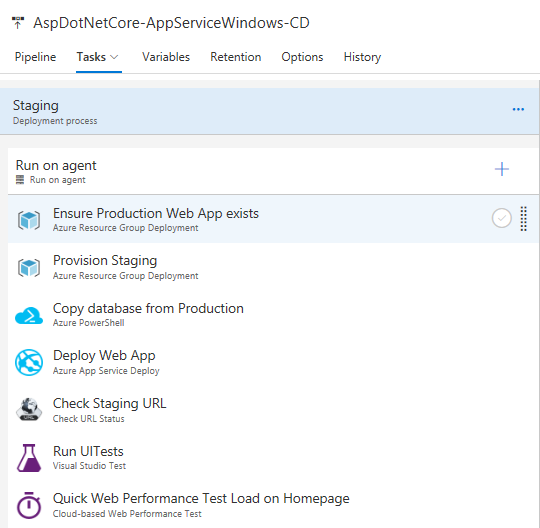
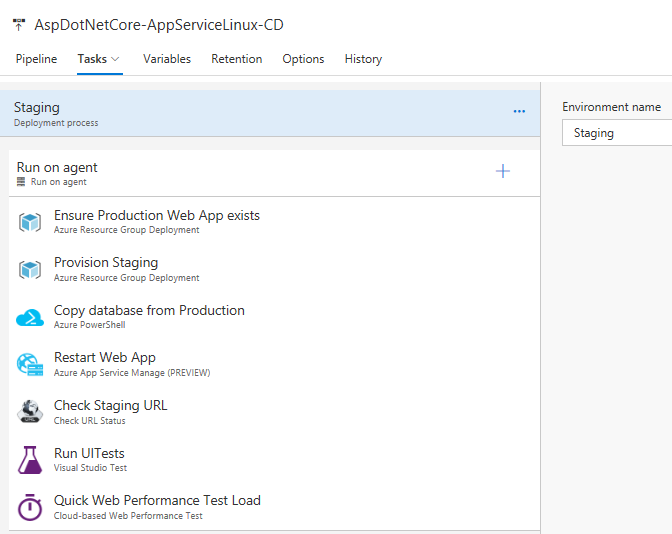
Update general documentation for App Service Linux CD.

diff --git a/docs/AspDotNetCore-AppServiceLinux-CD.md b/docs/AspDotNetCore-AppServiceLinux-CD.md
@@ -29,7 +29,7 @@ TODO
 - Location = East US
 
 ### Steps 
-- (Ensure) App Service Plan and Web App
+- Ensure Production Web App exists
   - Type = Azure Resource Group Deployment
   - Version = 2.*
   - Azure Subscription = set appropriate
@@ -40,7 +40,7 @@ TODO
   - Template = $(System.DefaultWorkingDirectory)/AspDotNetCore-AppServiceLinux-CI/infra/[deploy-linux.json](../infra/templates/deploy-linux.json)
   - Override Template Parameters = -webAppName $(ResourceGroupName) -appServicePlanName $(ResourceGroupName)
   - Deployment Mode = Incremental
-- Slot
+- Provision Staging
   - Type = Azure Resource Group Deployment
   - Version = 2.*
   - Azure Subscription = set appropriate
@@ -48,41 +48,8 @@ TODO
   - Resource Group = $(ResourceGroupName)
   - Location = $(Location)
   - Template location = Linked artifact
-  - Template = $(System.DefaultWorkingDirectory)/AspDotNetCore-AppServiceLinux-CI/infra/[WebAppSlot.json](../infra/templates/WebAppSlot.json)
+  - Template = $(System.DefaultWorkingDirectory)/AspDotNetCore-AppServiceLinux-CI/infra/[deploy-linux-slot.json](../infra/templates/deploy-linux-slot.json)
   - Override Template Parameters = -webAppName $(ResourceGroupName) -slotName $(SlotName)
-  - Deployment Mode = Incremental
-- App Insights
-  - Type = Azure Resource Group Deployment
-  - Version = 2.*
-  - Azure Subscription = set appropriate
-  - Action = Create Or Update Resource Group
-  - Resource Group = $(ResourceGroupName)
-  - Location = $(Location)
-  - Template location = Linked artifact
-  - Template = $(System.DefaultWorkingDirectory)/AspDotNetCore-AppServiceLinux-CI/infra/[ApplicationInsights.json](../infra/templates/ApplicationInsights.json)
-  - Override Template Parameters = -appInsightsName $(ResourceGroupName)-$(SlotName)
-  - Deployment Mode = Incremental
-- Sql Database
-  - Type = Azure Resource Group Deployment
-  - Version = 2.*
-  - Azure Subscription = set appropriate
-  - Action = Create Or Update Resource Group
-  - Resource Group = $(ResourceGroupName)
-  - Location = $(Location)
-  - Template location = Linked artifact
-  - Template = $(System.DefaultWorkingDirectory)/AspDotNetCore-AppServiceLinux-CI/infra/[SqlDatabase.json](../infra/templates/SqlDatabase.json)
-  - Override Template Parameters = -databaseName $(ResourceGroupName)-$(SlotName) -adminLogin $(AdministratorLogin) -adminLoginPassword (ConvertTo-SecureString -String '$(AdministratorLoginPassword)' -AsPlainText -Force)
-  - Deployment Mode = Incremental
-- Slot App Settings
-  - Type = Azure Resource Group Deployment
-  - Version = 2.*
-  - Azure Subscription = set appropriate
-  - Action = Create Or Update Resource Group
-  - Resource Group = $(ResourceGroupName)
-  - Location = $(Location)
-  - Template location = Linked artifact
-  - Template = $(System.DefaultWorkingDirectory)/AspDotNetCore-AppServiceLinux-CI/infra/[WebAppSlotSettings.json](../infra/templates/WebAppSlotSettings.json)
-  - Override Template Parameters = -webAppName $(ResourceGroupName) -slotName $(SlotName) -adminLogin $(AdministratorLogin) -adminLoginPassword (ConvertTo-SecureString -String '$(AdministratorLoginPassword)' -AsPlainText -Force)
   - Deployment Mode = Incremental
 - Restart Web App
   - Type = Azure App Service Manage (PREVIEW)
@@ -93,6 +60,21 @@ TODO
   - Specify Slot = true
   - Resource Group = $(ResourceGroupName)
   - Slot = $(SlotName)
+- Run UITests
+  - Type = Visual Studio Test
+  - Version = 2.*
+  - Select tests using = Test assemblies
+  - Test assemblies = *UITests.dll
+  - Search folder = $(System.DefaultWorkingDirectory)/AspDotNetCore-AppServiceLinux-CI/ui-tests
+  - Test filter criteria = TestCategory=UITests
+  - Select test platform using = Version
+  - Test paltform version = Latest
+  - Settings file = $(System.DefaultWorkingDirectory)/ApsNetCore-AppServiceLinux-CI/ui-tests/TestRunParameters.runsettings
+  - Override test run parameters = -BaseUrl https://$(ResourceGroupName)-$(SlotName).azurewebsites.net -Browser PhantomJS
+  - Test run title = UITests
+  - Build Platform = $(ReleasePlatform)
+  - Build Configuration = $(ReleaseConfiguration)
+  - Upload test attachments = true
 - Quick Web Performance Test Load
   - Type = Cloud-based Web Performance Test
   - Version = 1.*
@@ -122,50 +104,23 @@ TODO
 - Location = East US
 
 ### Steps
-- (Ensure) App Service Plan and Web App
-  - Type = Azure Resource Group Deployment
-  - Version = 2.*
+- Stop Staging
+  - Type = Azure App Service Manage (PREVIEW)
+  - Version = 0.*
   - Azure Subscription = set appropriate
-  - Action = Create Or Update Resource Group
+  - Action = Stop App Service
+  - App Service Name = $(ResourceGroupName)
+  - Specify Slot = true
   - Resource Group = $(ResourceGroupName)
-  - Location = $(Location)
-  - Template location = Linked artifact
-  - Template = $(System.DefaultWorkingDirectory)/AspDotNetCore-AppServiceLinux-CI/infra/[deploy-linux.json](../infra/templates/deploy-linux.json)
-  - Override Template Parameters = -webAppName $(ResourceGroupName) -appServicePlanName $(ResourceGroupName)
-  - Deployment Mode = Incremental
-- App Insights
-  - Type = Azure Resource Group Deployment
-  - Version = 2.*
+  - Slot = $(SlotToSwap)
+- Copy database from Production (Backup plan)
+  - Type = Azure PowerShell
+  - Version = 0.*
+  - Azure Connection Type = Azure Resource Manager
   - Azure Subscription = set appropriate
-  - Action = Create Or Update Resource Group
-  - Resource Group = $(ResourceGroupName)
-  - Location = $(Location)
-  - Template location = Linked artifact
-  - Template = $(System.DefaultWorkingDirectory)/AspDotNetCore-AppServiceLinux-CI/infra/[ApplicationInsights.json](../infra/templates/ApplicationInsights.json)
-  - Override Template Parameters = -appInsightsName $(ResourceGroupName)
-  - Deployment Mode = Incremental
-- Sql Database
-  - Type = Azure Resource Group Deployment
-  - Version = 2.*
-  - Azure Subscription = set appropriate
-  - Action = Create Or Update Resource Group
-  - Resource Group = $(ResourceGroupName)
-  - Location = $(Location)
-  - Template location = Linked artifact
-  - Template = $(System.DefaultWorkingDirectory)/AspDotNetCore-AppServiceLinux-CI/infra/[SqlDatabase.json](../infra/templates/SqlDatabase.json)
-  - Override Template Parameters = -databaseName $(ResourceGroupName) -adminLogin $(AdministratorLogin) -adminLoginPassword (ConvertTo-SecureString -String '$(AdministratorLoginPassword)' -AsPlainText -Force)
-  - Deployment Mode = Incremental
-- App Settings
-  - Type = Azure Resource Group Deployment
-  - Version = 2.*
-  - Azure Subscription = set appropriate
-  - Action = Create Or Update Resource Group
-  - Resource Group = $(ResourceGroupName)
-  - Location = $(Location)
-  - Template location = Linked artifact
-  - Template = $(System.DefaultWorkingDirectory)/AspDotNetCore-AppServiceLinux-CI/infra/[WebAppSettings.json](../infra/templates/WebAppSettings.json)
-  - Override Template Parameters = -webAppName $(ResourceGroupName)  -adminLogin $(AdministratorLogin) -adminLoginPassword (ConvertTo-SecureString -String '$(AdministratorLoginPassword)' -AsPlainText -Force)
-  - Deployment Mode = Incremental
+  - Script Type = Script File Path
+  - Script Path = TODO
+  - Script Arguments = TODO
 - Swap Staging to Production
   - Type = Azure App Service Manage (PREVIEW)
   - Version = 0.*
@@ -175,15 +130,62 @@ TODO
   - Resource Group = $(ResourceGroupName)
   - Source Slot = $(SlotToSwap)
   - Swap with Production = true
+- Check Production URL
+  - Type = [Check URL Status](https://marketplace.visualstudio.com/items?itemName=saeidbabaei.checkUrl)
+  - URL = https://$(ResourceGroupName).azurewebsites.net
+- Start Staging
+  - Type = Azure App Service Manage (PREVIEW)
+  - Version = 0.*
+  - Azure Subscription = set appropriate
+  - Action = Start App Service
+  - App Service Name = $(ResourceGroupName)
+  - Specify Slot = true
+  - Resource Group = $(ResourceGroupName)
+  - Slot = $(SlotToSwap)
 - Set Resource Group Lock
   - Type = Azure PowerShell
   - Version = 1.*
-  - Azure Connection Type = set appropriate
-  - Azure RM Subscription = set appropriate
-  - Script Path = $(System.DefaultWorkingDirectory)/AspDotNetCore-AppServiceLinux-CI/scripts/[AddResourceGroupLock.ps1](../infra/scripts/AddResourceGroupLock.ps1)
+  - Azure Connection Type = Azure Resource Manager
+  - Azure Subscription = set appropriate
+  - Script Type = Script File Path
+  - Script Path = $(System.DefaultWorkingDirectory)/AspDotNetCore-Linux-CI/scripts/[AddResourceGroupLock.ps1](../infra/scripts/AddResourceGroupLock.ps1)
   - Script Arguments = $(ResourceGroupName)
 
-  # "Deploy to Azure" buttons
+### General remark
+
+  For the "Set Resource Group Lock" step, you will need to make sure that your default Service Principal user created by VSTS (during the Azure RM service endpoint creation) has the Owner role and not by default the Contributor role. Otherwise this task will fail. To assign the Owner role, you could go to the Access control (IAM) blade of your Azure subscription within the new Azure portal and then Assign (Add button) the associated VisualStudioSPN... user to the Owner role.
+
+## Rollback Environment
+
+This environment should be used just if necessary when the bad things happened in Production just after this release pipeline. It allows to be prepared by automation to rollback the changed and get back to the previous version.
+
+![Rollback Release Overview](/docs/imgs/AspDotNetCore-AppServiceWindows-CD-Rollback.PNG)
+
+### Pre-deploymnet conditions
+
+- Triggers
+  - Select the source of the trigger = Environment
+  - Environment(s) that will trigger a deployment = Production
+- Pre-deployment approvers
+  - Approval type = Specific users
+  - Select approvers = set appropriate
+
+### Tasks
+
+- Rollback Swap
+  - Type = Azure App Service Manage (PREVIEW)
+  - Version = 0.*
+  - Azure Subscription = set appropriate
+  - Action = Swap Slots
+  - App Service Name = $(ResourceGroupName)
+  - Resource Group = $(ResourceGroupName)
+  - Source Slot = $(SlotToSwap)
+  - Swap with Production = true
+- Check Production URL
+  - Type = [Check URL Status](https://marketplace.visualstudio.com/items?itemName=saeidbabaei.checkUrl)
+  - URL = https://$(ResourceGroupName).azurewebsites.net
+
+# "Deploy to Azure" buttons
 
 By using the buttons below it's another way to deploy the Azure services without VSTS and without taking into account the web app, just deploying the infrastructure within Azure.
 

diff --git a/README.md b/README.md
@@ -88,7 +88,7 @@ Here are the DevOps practices highlighted within this CD pipeline:
 - GitHub as source control to leverage key features for collaboration such as feature-branch with pull request, etc.
 - CI/CD definitions as Code with the exported json file of the Build and Release Definitions
 
-# Alternatives and potantial further considerations
+# Alternatives and potential further considerations
 
 - Improvements
     - [Configure VSTS and Microsoft Teams](https://almvm.azurewebsites.net/labs/vsts/teams/) (or Slack or HipChat, etc.) to add more collaboration by setting up notifications once a work item is updated, a commit is done, a build or release or done, etc.

diff --git a/docs/AspDotNetCore-AppServiceWindows-CD.md b/docs/AspDotNetCore-AppServiceWindows-CD.md
@@ -76,6 +76,9 @@ TODO
   - Package or Folder = $(System.DefaultWorkingDirectory)/AspDotNetCore-AppServiceWindows-CI/infra/AspNetCoreApplication.zip
   - Publish using Web Deploy = true
   - Take App Offline = true
+- Check Staging URL
+  - Type = [Check URL Status](https://marketplace.visualstudio.com/items?itemName=saeidbabaei.checkUrl)
+  - URL = https://$(ResourceGroupName)-$(SlotName).azurewebsites.net
 - Run UITests
   - Type = Visual Studio Test
   - Version = 2.*

diff --git a/docs/AspDotNetCore-AppServiceLinux-CI.md b/docs/AspDotNetCore-AppServiceLinux-CI.md
@@ -118,7 +118,7 @@ TODO
   - Image Name = $(Build.Repository.Name):$(Build.BuildId)
   - Qualify Image Name = true
   - Include Latest Tags = true
-- Push an image
+- Push Docker image
   - Type = Docker (PREVIEW)
   - Version = 0.* (preview)
   - Container Registry Type = Azure Container Registry
